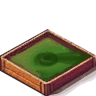
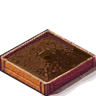
final refactor revert

Changed region(s): [[0.0625, 0.375, 0.9375, 0.875]]

diff --git a/apps/client/src/entities/Soil/Soil.ts b/apps/client/src/entities/Soil/Soil.ts
@@ -20,7 +20,7 @@ export default class Soil extends Phaser.GameObjects.Sprite {
 
     if (plant.growTime) {
       this.isOccupied = true;
-      this.setTexture('harvested');
+      this.setTexture('planted');
     }
 
     this.plant = plant;
